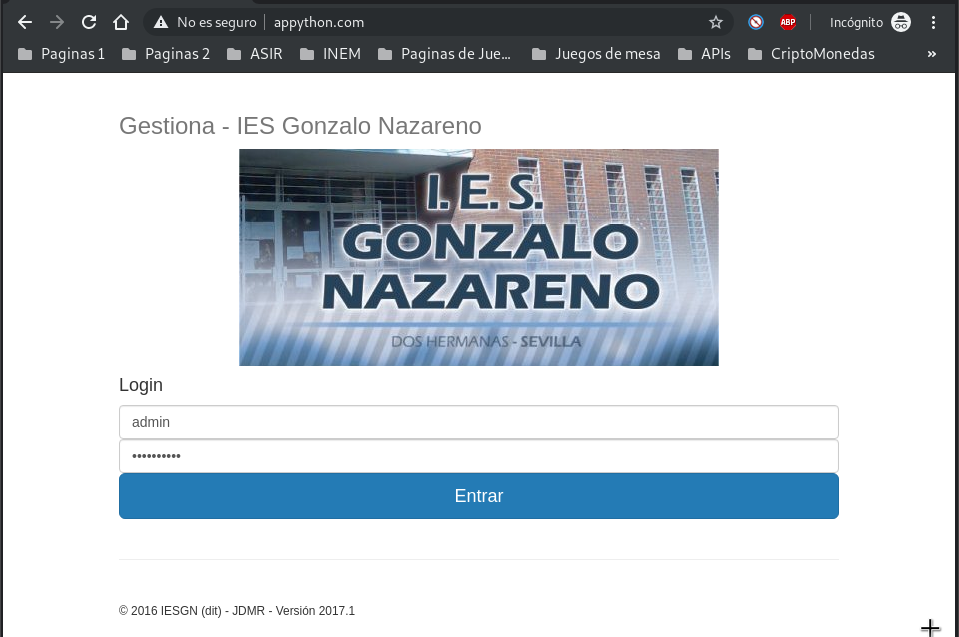
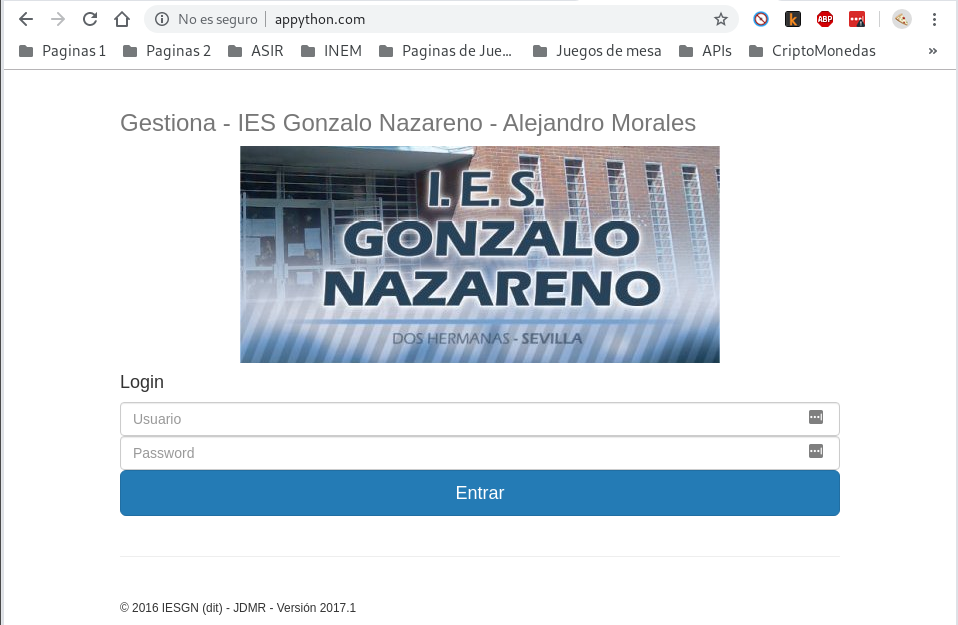
Modificación

diff --git a/Desarrollo_Produccion_Python.md b/Desarrollo_Produccion_Python.md
@@ -1,8 +1,8 @@
 ## Tarea 1 (3 puntos): Entorno de desarrollo
 
-#### Formas parte del equipo de desarrollo de la aplicación “Gestión IESGN”, aplicación web desarrollada con python, con el framework django. Vamos a configurar tu equipo como entorno de desarrollo para trabajar con la aplicación, para ello:
+#### Formas parte del equipo de desarrollo de la aplicación “Gestión IESGN”, aplicación web desarrollada con python, con el framework django. Vamos a configurar tu equipo como entorno de desarrollo para trabajar con la aplicación, para ello
 
-* Realiza un fork del repositorio de GitHub: https://github.com/jd-iesgn/iaw_gestionGN.
+* Realiza un fork del repositorio de GitHub: https://github.com/jd-iesgn/iaw_gestionGN
 * Clona el repositorio en tu equipo.
 
 ~~~
@@ -19,7 +19,8 @@ source django2/bin/activate
 pip install -r requirements.txt
 ~~~
 
-###### Puede que tengamos que instalar las dependencias:
+###### Puede que tengamos que instalar las dependencias
+
 ~~~
 sudo apt install python3-dev
 sudo apt-get install libjpeg-dev zlib1g-dev
@@ -30,6 +31,7 @@ sudo apt-get install libjpeg-dev zlib1g-dev
 * Comprueba que vamos a trabajar con una base de datos sqlite (gestion\settings.py). ¿Cómo se llama la base de datos que vamos a crear?
 
 ###### Nuestra base de datos se va a llamar *djangodb*
+
 ~~~
 DATABASES = {
     'default': {
@@ -43,6 +45,7 @@ DATABASES = {
 ---------------------------------------------------------------------------------------
 
 * Crea la base de datos: python3 manage.py migrate. A partir del modelo de datos se crean las tablas de la base de datos.
+
 ~~~
 python3 manage.py migrate
 Operations to perform:
@@ -73,14 +76,16 @@ Running migrations:
 ---------------------------------------------------------------------------------------
 
 * Añade los datos de prueba a la base de datos. Para más información: https://coderwall.com/p/mvsoyg/django-dumpdata-and-loaddata. Utiliza el fichero datos.json.
+
 ~~~
-./manage.py loaddata datos.json 
+./manage.py loaddata datos.json
    Installed 89 object(s) from 1 fixture(s)
 ~~~
 
 ---------------------------------------------------------------------------------------
 
 * Ejecuta el servidor web de desarrollo y comprueba en el navegador que la aplicación está funcionando.
+
 ~~~
 python manage.py runserver
 ~~~
@@ -98,21 +103,13 @@ python manage.py runserver
 
 ![Tarea1.3](image/Tarea1.3_Python2.png)
 
-
-
-
-
-
-
-
-
-
 ## Tarea 2 (1 punto): Desarrollando nuestra aplicación
 
-#### Vamos a realizar un cambio en la aplicación y comprobar que los cambios se realizan correctamente.
+#### Vamos a realizar un cambio en la aplicación y comprobar que los cambios se realizan correctamente
 
 * Modifica la página inicial de la aplicación para que aparezca tu nombre.
 Sube los cambios al repositorio
+
 ~~~
  <div class="masthead">
         <h3 class="text-muted">Gestiona - IES Gonzalo Nazareno - Alejandro Morales</h3>
@@ -126,24 +123,22 @@ Sube los cambios al repositorio
 
 ![Tarea1.4](image/Tarea1.4_Python2.png)
 
-
-
-
-
 ## Tarea 3 (4 puntos): Entorno de producción
 
 #### Vamos a realizar el despliegue de nuestra aplicación en un entorno de producción, para ello vamos a utilizar una instancia del cloud, para ello:
 
-* Instala en el servidor los servicios necesarios (apache2, mysql, …). Instala el módulo de apache2 para ejecutar código python.
+* Instala en el servidor los servicios necesarios (apache2, mysql, …). Instala el módulo de apache2 para ejecutar código python
+
 ~~~
 sudo apt install apache2
 sudo apt install libapache2-mod-wsgi-py3
-sudo apt install mysql-common 
+sudo apt install mysql-common
 ~~~
 
 ---------------------------------------------------------------------------------------
 
-* Clona tu repositorio en el DocumentRoot de tu virtualhost.
+* Clona tu repositorio en el DocumentRoot de tu virtualhost
+  
 ~~~
 sudo apt install git
 cd /var/www/html/
@@ -320,7 +315,7 @@ python3 manage.py migrate
     Applying sessions.0001_initial... OK
 ~~~
 
-###### Rellenamos las tablas creadas con el siguiente comando:
+###### Rellenamos las tablas creadas con el siguiente comando
 
 ~~~
 ./manage.py loaddata datos.json
@@ -381,29 +376,61 @@ DEBUG = False
 
 #### Vamos a realizar cambios en el entorno de desarrollo y posteriormente vamos a subirlas a producción.
 
-* Modifica la página inicial para que muestre otra imagen. Despliega los cambios en el servidor de producción.
+* Modifica la página inicial para que muestre otra imagen. Despliega los cambios en el servidor de producción
+
+###### Editamos el fichero *index.html* y le añadimos la imagen que queramos
+
+~~~
+cat templates/index.html
+{% extends "base_menu.html" %}
+
+
+
+{% block content %}
+<center><img src="/static/img/AlejandroAvatar.png"/></center>
+
+{% endblock %}
+~~~
+
+###### Comprobación
+
+![Tarea4.1](image/Tarea4.1_Python.png)
 
 ---------------------------------------------------------------------------------------
 
 * Vamos a crear una nueva tabla en la base de datos, para ello sigue los siguientes pasos:
 
-1. Añade un n uevo modelo al fichero centro/models.py:
+1. Añade un nuevo modelo al fichero centro/models.py:
 ~~~
- class Modulos(models.Model):	
-     Abr = models.CharField(max_length=4)
-     Nombre = models.CharField(max_length=50)
-     Unidad = models.ForeignKey(Cursos,blank=True,null=True,on_delete=models.SET_NULL)
-		
-     def __unicode__(self):
-         return self.Abr+" - "+self.Nombre 		
-
-     class Meta:
-         verbose_name="Modulo"
-         verbose_name_plural="Modulos"
+class Modulos(models.Model):
+    Abr = models.CharField(max_length=4)
+    Nombre = models.CharField(max_length=50)
+    Unidad = models.ForeignKey(Cursos,blank=True,null=True,on_delete=models.SET_NULL)
+    def __unicode__(self):
+        return self.Abr+" - "+self.Nombre
+    class Meta:
+        verbose_name="Modulo"
+        verbose_name_plural="Modulos"
 ~~~
 2. Crea una nueva migración: python3 manage.py makemigrations.
 
+~~~
+python3 manage.py makemigrations
+   Migrations for 'centro':
+     centro/migrations/0007_modulos.py
+       - Create model Modulos
+~~~
+
 3. Y realiza la migración: python3 manage.py migrate
+
+~~~
+python3 manage.py migrate
+   Operations to perform:
+     Apply all migrations: admin, auth, centro, contenttypes, convivencia, sessions
+   Running migrations:
+     Applying centro.0007_modulos... OK
+~~~
+
 4. Añade el nuevo modelo al sitio de administración de django:
 
 Para ello cambia la siguiente línea en el fichero centro/admin.py:
@@ -421,23 +448,60 @@ Y añade al final la siguiente línea:
 admin.site.register(Modulos)
 ~~~
 
+###### Comprobación
+
+![Tarea4.2](image/Tarea4.2_Python.png)
+
 * Despliega el cambio producido al crear la nueva tabla en el entorno de producción.
 
----------------------------------------------------------------------------------------
+###### Entorno de desarrollo
 
+~~~
+git add static/img/AlejandroAvatar.png
+git add centro
+git add djangodb djangodb
+git commit -am "Modificación"
+git push
+~~~
 
+###### Entorno de producción
 
+~~~
+sudo git pull
+   remote: Enumerating objects: 15, done.
+   remote: Counting objects: 100% (15/15), done.
+   remote: Compressing objects: 100% (8/8), done.
+   remote: Total 15 (delta 7), reused 12 (delta 7), pack-reused 0
+   Unpacking objects: 100% (15/15), done.
+   From https://github.com/MoralG/iaw_gestionGN
+      2fe904d..5a1351a  master     -> origin/master
+   Updating 2fe904d..5a1351a
+   Fast-forward
+    centro/admin.py                |   3 ++-
+    centro/models.py               |  17 ++++++++++++-----
+    gestion/settings.py            |   2 +-
+    static/img/AlejandroAvatar.png | Bin 0 -> 32122 bytes
+    templates/base.html            |   2 +-
+    templates/index.html           |   4 ++--
+    6 files changed, 18 insertions(+), 10 deletions(-)
+    create mode 100644 static/img/AlejandroAvatar.png
+~~~
 
+###### Para que el *css* de la zona de administrador se veo correctamente tenemos que ejecutar el siguiente comando, que hace que recoge el los static que no estan en el directorio de nuestra página
 
+~~~
+sudo python3 manage.py collectstatic
+   You have requested to collect static files at the destination
+   location as specified in your settings.
+   
+   This will overwrite existing files!
+   Are you sure you want to do this?
+   
+   Type 'yes' to continue, or 'no' to cancel: yes
+~~~
+
+![Tarea4.2](image/Tarea4.3_Python.png)
 
 ## Tarea 5 (3 puntos): Despliegue de nuestra aplicación en un hosting python: pythonanywhere
 
-#### Siguiendo la documentación despliega nuestra aplicación django en pythonanwhere. Utiliza git para desplegar los ficheros y crea una base de datos en tu proyecto. Si con la documentación no es suficiente puede seguir mi documento: Despliegue de aplicación flask en hosting pythonanywhere.
-
----------------------------------------------------------------------------------------
-
-
-
-
-
-
+#### Siguiendo la documentación despliega nuestra aplicación django en pythonanwhere. Utiliza git para desplegar los ficheros y crea una base de datos en tu proyecto. Si con la documentación no es suficiente puede seguir mi documento: Despliegue de aplicación flask en hosting pythonanywhere
